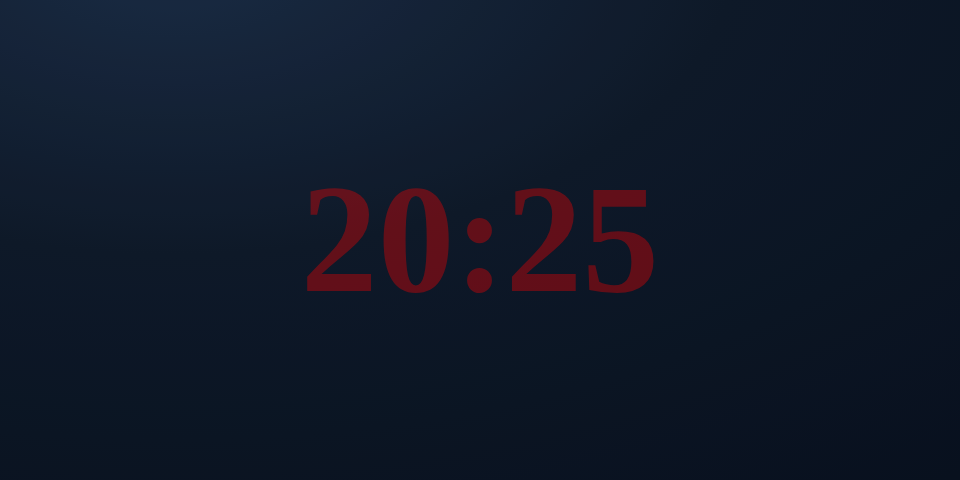
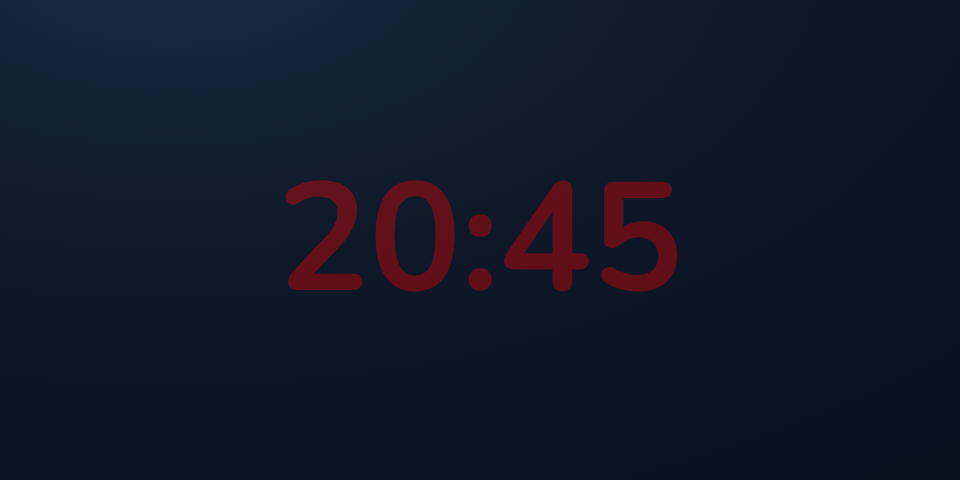
docs: régénère les captures avec la police Nunito
Cohérent avec echo-weather-card, qui utilise déjà Nunito dans ses
propres captures d'exemple.

Changed region(s): [[0.2812, 0.375, 0.7188, 0.625]]

diff --git a/README.md b/README.md
@@ -16,7 +16,8 @@ l'entité satellite View Assist, avec un mode nuit dédié.
 ![Aperçu de la carte à 960x480](docs/screenshot.png)
 
 > Rendu généré via un navigateur headless en 960x480 avec des données de
-> test. Police système par défaut (voir [Polices](#polices) plus bas).
+> test. Police Nunito appliquée via `--echo-home-font-family` (non
+> incluse par la carte, voir [Polices](#polices) plus bas).
 
 C'est le remplacement, en vraie carte Lit, de la vue d'accueil (« clock
 view ») fournie par défaut par View Assist — telle que je l'avais
